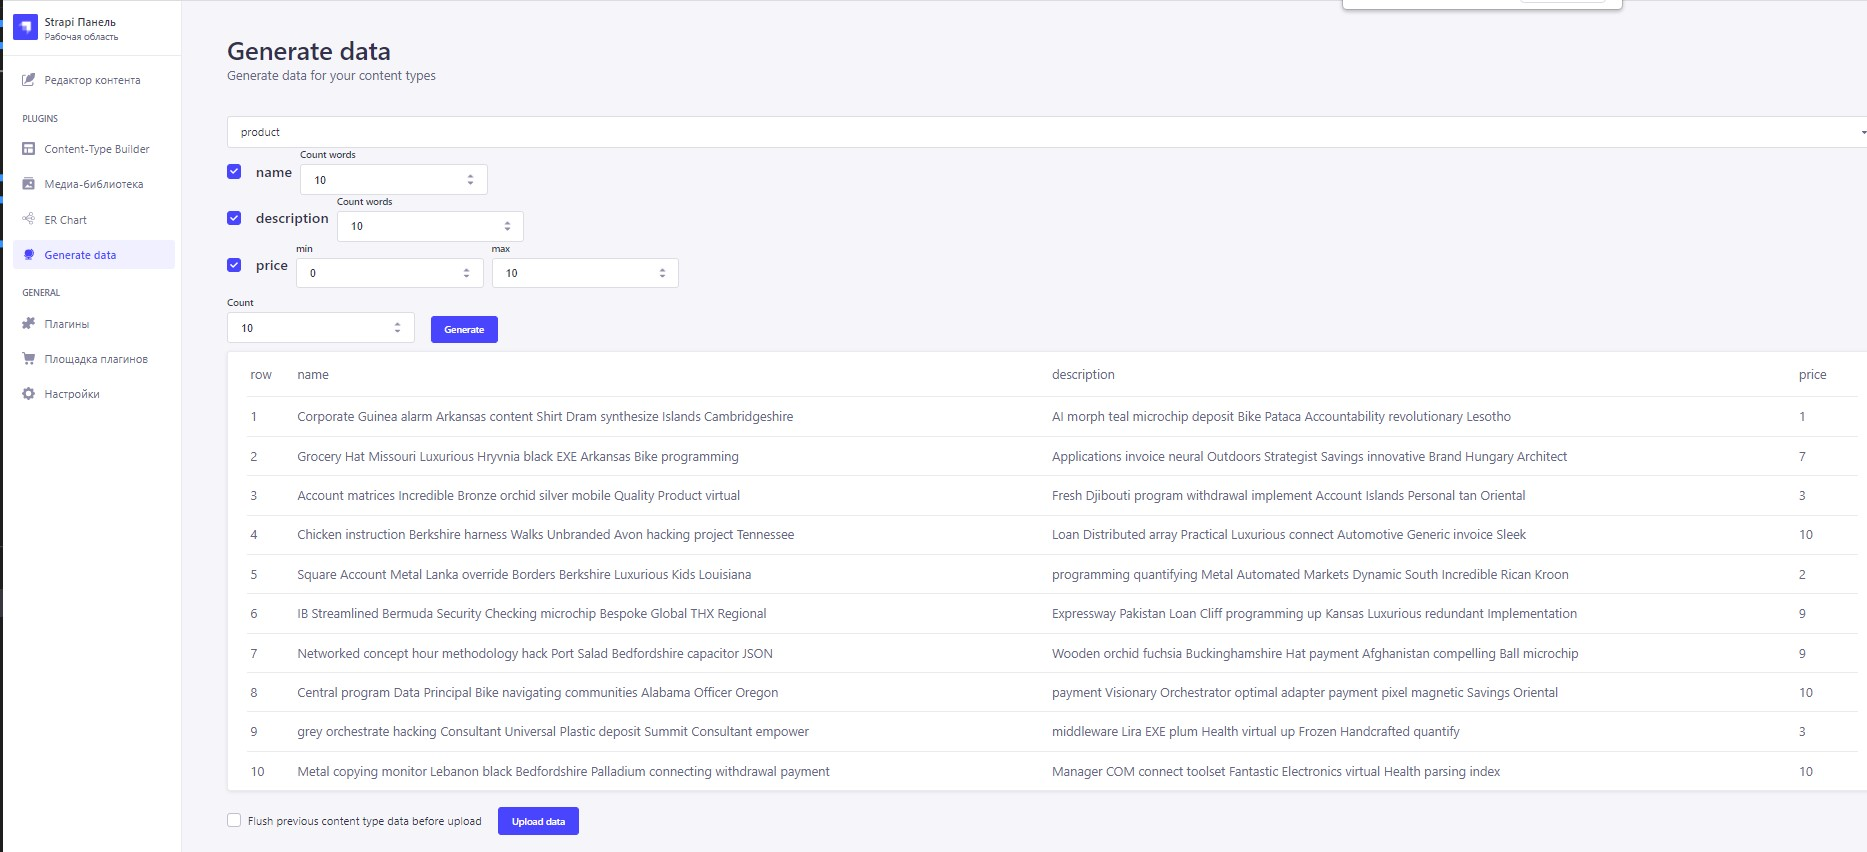
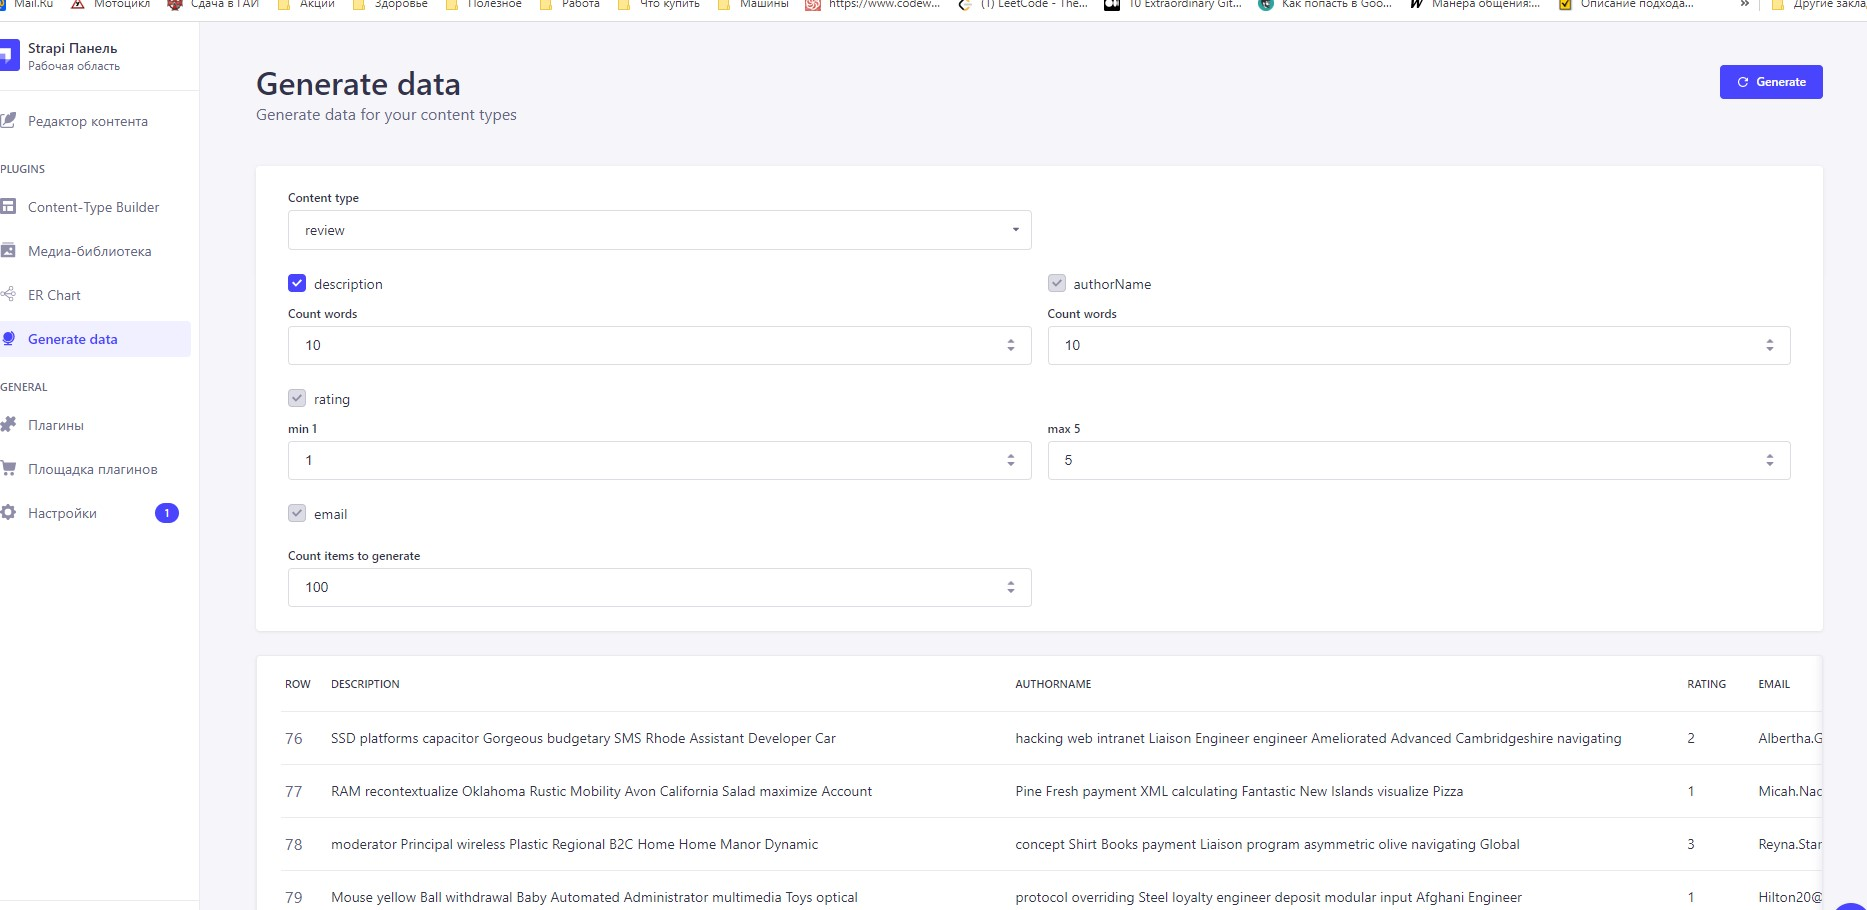
Updated ui and removed generated table after changing content type

diff --git a/admin/src/pages/HomePage/index.tsx b/admin/src/pages/HomePage/index.tsx
@@ -17,6 +17,7 @@ import {
 	Layout,
 } from '@strapi/design-system/Layout';
 
+import { Grid, GridItem } from '@strapi/design-system/Grid';
 import { Flex } from '@strapi/design-system/Flex';
 import { Button } from '@strapi/design-system/Button';
 import { NumberInput } from '@strapi/design-system/NumberInput';
@@ -24,6 +25,7 @@ import { Checkbox } from '@strapi/design-system/Checkbox';
 import { Alert } from '@strapi/design-system/Alert';
 import GeneratedDataTable from '../../components/GeneratedDataTable';
 import axios from '../../utils/axiosInstance';
+import RefreshIcon from '@strapi/icons/Refresh';
 
 interface ContentType {
 	apiID: string;
@@ -120,6 +122,7 @@ const HomePage: React.VoidFunctionComponent = () => {
 	const handleChangeSelect = (newTypeUID: string) => {
 		setValues(null);
 		setSelectedTypeUID(newTypeUID);
+		setGeneratedData([]);
 	};
 
 	const handleClickGenerate = () => {
@@ -265,79 +268,120 @@ const HomePage: React.VoidFunctionComponent = () => {
 	};
 
 	let renderStringInput = (key: string, attribute) => (
-		<Flex gap='10px' alignItems='center'>
-			<Checkbox
-				disabled={attribute.required}
-				onChange={handleChangeChecked(key)}
-				checked={checkedAttributes.includes(key)}></Checkbox>
-			<Typography variant='beta'>{key}</Typography>
-			<NumberInput
-				disabled={!checkedAttributes.includes(key)}
-				onValueChange={handleValueChange(key, 'count')}
-				// @ts-ignore
-				value={values[key].count}
-				label='Count words'></NumberInput>
-		</Flex>
-	);
-
-	const getAttributeInputs = (key: string, attribute) => {
-		return {
-			['integer']: (
-				<Flex gap='10px'>
+		<GridItem col={6}>
+			<Box marginBottom='8px'>
+				<Box marginBottom='12px'>
 					<Checkbox
 						disabled={attribute.required}
 						onChange={handleChangeChecked(key)}
-						checked={checkedAttributes.includes(key)}></Checkbox>
-					<Typography variant='beta'>{key}</Typography>
-					<NumberInput
-						disabled={!checkedAttributes.includes(key)}
-						onValueChange={handleValueChange(key, 'min')}
-						// @ts-ignore
-						value={values[key].min}
-						label={'min ' + attribute.min}></NumberInput>
-					<NumberInput
-						disabled={!checkedAttributes.includes(key)}
-						onValueChange={handleValueChange(key, 'max')}
-						// @ts-ignore
-						value={values[key].max}
-						label={'max ' + attribute.max}></NumberInput>
-				</Flex>
+						checked={checkedAttributes.includes(key)}>
+						{key}
+					</Checkbox>
+				</Box>
+				<NumberInput
+					disabled={!checkedAttributes.includes(key)}
+					onValueChange={handleValueChange(key, 'count')}
+					// @ts-ignore
+					value={values[key].count}
+					label='Count words'></NumberInput>
+			</Box>
+		</GridItem>
+	);
+
+	const getAttributeInputs = (key: string, attribute) => {
+		console.log(attribute.min === undefined ? '' : attribute.min);
+		return {
+			['integer']: (
+				<GridItem col={12}>
+					<Box marginBottom='8px'>
+						<Box marginBottom='12px'>
+							<Checkbox
+								disabled={attribute.required}
+								onChange={handleChangeChecked(key)}
+								checked={checkedAttributes.includes(key)}>
+								{key}
+							</Checkbox>
+						</Box>
+						<Flex gap='16px'>
+							<Box flex='1'>
+								<NumberInput
+									disabled={!checkedAttributes.includes(key)}
+									onValueChange={handleValueChange(
+										key,
+										'min'
+									)}
+									// @ts-ignore
+									value={values[key].min}
+									label={`min ${
+										attribute.min ? attribute.min : ''
+									}`}></NumberInput>
+							</Box>
+							<Box flex='1'>
+								<NumberInput
+									disabled={!checkedAttributes.includes(key)}
+									onValueChange={handleValueChange(
+										key,
+										'max'
+									)}
+									// @ts-ignore
+									value={values[key].max}
+									label={`max ${
+										attribute.max ? attribute.max : ''
+									}`}></NumberInput>
+							</Box>
+						</Flex>
+					</Box>
+				</GridItem>
 			),
 			['richtext']: renderStringInput(key, attribute),
 			['string']: renderStringInput(key, attribute),
 			['email']: (
-				<Flex gap='10px'>
-					<Checkbox
-						disabled={attribute.required}
-						onChange={handleChangeChecked(key)}
-						checked={checkedAttributes.includes(key)}></Checkbox>
-					<Typography variant='beta'>{key}</Typography>
-				</Flex>
+				<GridItem col={6}>
+					<Box marginBottom='8px'>
+						<Checkbox
+							disabled={attribute.required}
+							onChange={handleChangeChecked(key)}
+							checked={checkedAttributes.includes(key)}>
+							{key}
+						</Checkbox>
+					</Box>
+				</GridItem>
 			),
 			['date']: (
-				<Flex gap='10px'>
-					<Checkbox
-						disabled={attribute.required}
-						onChange={handleChangeChecked(key)}
-						checked={checkedAttributes.includes(key)}></Checkbox>
-					<Typography variant='beta'>{key}</Typography>
-					<DatePicker
-						onChange={handleValueChange(key, 'from')}
-						selectedDateLabel={(formattedDate) =>
-							`Date picker, current is ${formattedDate}`
-						}
-						// @ts-ignore
-						selectedDate={values[key].from}
-						label='Date from'></DatePicker>
-					<DatePicker
-						label='Date to'
-						onChange={handleValueChange(key, 'to')}
-						selectedDateLabel={(formattedDate) =>
-							`Date picker, current is ${formattedDate}`
-						}
-						// @ts-ignore
-						selectedDate={values[key].to}></DatePicker>
-				</Flex>
+				<GridItem col={12}>
+					<Box marginBottom='8px'>
+						<Box marginBottom='12px'>
+							<Checkbox
+								disabled={attribute.required}
+								onChange={handleChangeChecked(key)}
+								checked={checkedAttributes.includes(key)}>
+								{key}
+							</Checkbox>
+						</Box>
+						<Flex gap='16px'>
+							<Box flex='1'>
+								<DatePicker
+									onChange={handleValueChange(key, 'from')}
+									selectedDateLabel={(formattedDate) =>
+										`Date picker, current is ${formattedDate}`
+									}
+									// @ts-ignore
+									selectedDate={values[key].from}
+									label='Date from'></DatePicker>
+							</Box>
+							<Box flex='1'>
+								<DatePicker
+									label='Date to'
+									onChange={handleValueChange(key, 'to')}
+									selectedDateLabel={(formattedDate) =>
+										`Date picker, current is ${formattedDate}`
+									}
+									// @ts-ignore
+									selectedDate={values[key].to}></DatePicker>
+							</Box>
+						</Flex>
+					</Box>
+				</GridItem>
 			),
 		};
 	};
@@ -348,50 +392,70 @@ const HomePage: React.VoidFunctionComponent = () => {
 				title='Generate data'
 				subtitle='Generate data for your content types'
 				as='h1'
+				primaryAction={
+					selectedType && (
+						<Button
+							startIcon={<RefreshIcon></RefreshIcon>}
+							onClick={handleClickGenerate}>
+							Generate
+						</Button>
+					)
+				}
 			/>
 			<ContentLayout>
-				<Box marginBottom='10px'>
-					<Select
-						placeholder='Select your content type'
-						value={selectedTypeUID}
-						onChange={handleChangeSelect}>
-						{contentTypes.map((item) => (
-							<Option key={item.uid} value={item.uid}>
-								{item.apiID}
-							</Option>
-						))}
-					</Select>
-				</Box>
-				{attributes &&
-					values &&
-					Object.keys(attributes).map(
-						(key) =>
-							getAttributeInputs(key, attributes[key])[
-								attributes[key].type
-							]
-					)}
-				{selectedType && (
-					<Box paddingTop='10px' paddingBottom='10px'>
-						<Flex alignItems='end' gap='20px'>
-							<NumberInput
-								value={count}
-								onValueChange={setCount}
-								label='Count'></NumberInput>
-							<Button onClick={handleClickGenerate}>
-								Generate
-							</Button>
+				<Box
+					shadow='filterShadow'
+					padding='24px 32px'
+					borderRadius='4px'
+					marginBottom='24px'
+					background='neutral0'>
+					<Flex gap='16px'>
+						<Box flex='1' marginBottom='24px'>
+							<Select
+								label='Content type'
+								placeholder='Select your content type'
+								value={selectedTypeUID}
+								onChange={handleChangeSelect}>
+								{contentTypes.map((item) => (
+									<Option key={item.uid} value={item.uid}>
+										{item.apiID}
+									</Option>
+								))}
+							</Select>
+						</Box>
+						<Box flex='1'></Box>
+					</Flex>
+					<Grid gap='16px'>
+						{attributes &&
+							values &&
+							Object.keys(attributes).map(
+								(key) =>
+									getAttributeInputs(key, attributes[key])[
+										attributes[key].type
+									]
+							)}
+					</Grid>
+					{attributes && (
+						<Flex gap='16px'>
+							<Box paddingTop='16px' flex='1'>
+								<NumberInput
+									value={count}
+									onValueChange={setCount}
+									label='Count items to generate'></NumberInput>
+							</Box>{' '}
+							<Box flex='1'></Box>
 						</Flex>
-					</Box>
-				)}
+					)}
+				</Box>
 				{!!generatedData.length && (
 					<>
 						<GeneratedDataTable
 							data={generatedData}></GeneratedDataTable>
 						<Flex
 							alignItems='center'
-							marginTop='20px'
-							marginBottom='20px'
-							gap='20px'>
+							marginTop='12px'
+							marginBottom='12px'
+							gap='32px'>
 							<Checkbox
 								disabled={isUploadingData}
 								checked={isFlushedPreviousData}
@@ -406,6 +470,7 @@ const HomePage: React.VoidFunctionComponent = () => {
 								</Checkbox>
 							)}
 							<Button
+								variant='secondary'
 								loading={isUploadingData}
 								onClick={handleUploadData}>
 								Upload data

diff --git a/admin/src/components/GeneratedDataTable/GeneratedDataTable.tsx b/admin/src/components/GeneratedDataTable/GeneratedDataTable.tsx
@@ -2,6 +2,7 @@ import React, { useState, useEffect } from 'react';
 
 import { Table, Thead, Tbody, Tr, Td, Th } from '@strapi/design-system/Table';
 import { PageLink, Pagination } from '@strapi/design-system/v2/Pagination';
+import { Typography } from '@strapi/design-system/Typography';
 
 interface Props {
 	data: any[];
@@ -40,9 +41,13 @@ const GeneratedDataTable = ({ data }: Props) => {
 			}>
 			<Thead>
 				<Tr>
-					<Th>row</Th>
+					<Th>
+						<Typography variant='sigma'>ROW</Typography>
+					</Th>
 					{Object.keys(data[0]).map((key) => (
-						<Th>{key}</Th>
+						<Th>
+							<Typography variant='sigma'>{key}</Typography>
+						</Th>
 					))}
 				</Tr>
 			</Thead>
@@ -61,9 +66,11 @@ const GeneratedDataTable = ({ data }: Props) => {
 							</Td>
 							{Object.keys(item).map((key) => (
 								<Td>
-									{item[key] instanceof Date
-										? item[key].toString()
-										: item[key]}
+									<Typography>
+										{item[key] instanceof Date
+											? item[key].toString()
+											: item[key]}
+									</Typography>
 								</Td>
 							))}
 						</Tr>
